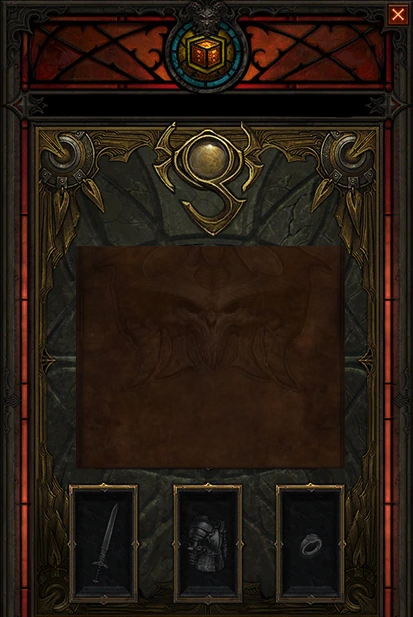
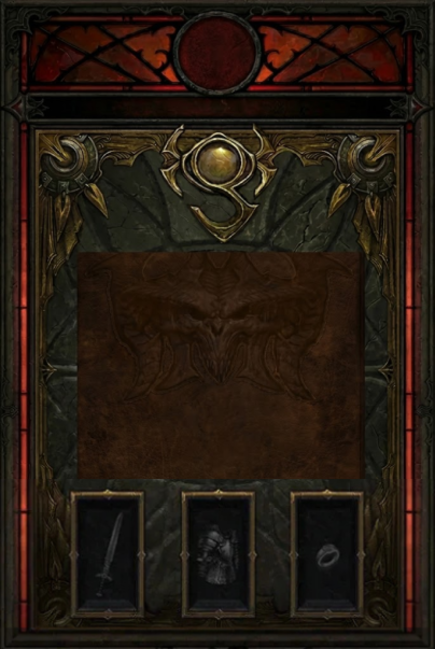
Feat: add stuff sprite in inventory

diff --git a/srcs/en/swingy/gui/guigame/InventoryGUI.java b/srcs/en/swingy/gui/guigame/InventoryGUI.java
@@ -7,6 +7,8 @@ import javax.swing.ImageIcon;
 import javax.swing.JLabel;
 
 import en.swingy.entity.entityclass.EntityClass;
+import en.swingy.equipement.armor.ArmorEnum;
+import en.swingy.equipement.helm.HelmEnum;
 import en.swingy.equipement.weapon.WeaponEnum;
 import en.swingy.gui.Assets;
 import en.swingy.gui.GUI;
@@ -19,7 +21,7 @@ public class InventoryGUI {
 				player.getEClass().getClass().getSimpleName()
 		);
 		JLabel PlayerIcon = new JLabel(pIcon);
-		PlayerIcon.setBounds(182, 30, pIcon.getIconWidth(), pIcon.getIconHeight());
+		PlayerIcon.setBounds(192, 27, pIcon.getIconWidth(), pIcon.getIconHeight());
 
 		label.add(PlayerIcon);
 	}
@@ -34,7 +36,7 @@ public class InventoryGUI {
 		int bannerWidth = IconWidth;
 
 		int nameX = (bannerWidth - textWidth) / 2;
-		int nameY = 90;
+		int nameY = 93;
 		PlayerName.setBounds(nameX, nameY, textWidth, 30);
 		label.add(PlayerName);
 	}
@@ -44,19 +46,28 @@ public class InventoryGUI {
 	}
 
 	public static void displayPlayerStuff(GUI gui, Hero player, JLabel label) {
-		System.out.println(WeaponEnum.findAssetByName(player.getWeapon().getName()));
 		ImageIcon weapon = new ImageIcon(WeaponEnum.findAssetByName(player.getWeapon().getName()));
-		JLabel l = new JLabel(weapon);
-		l.setBounds(40, 600, 66, 110);
+		JLabel l1 = new JLabel(weapon);
+		l1.setBounds(70, 500, 66, 110);
 
-		label.add(l);
+		ImageIcon armor = new ImageIcon(ArmorEnum.findAssetByName(player.getArmor().getName()));
+		JLabel l2 = new JLabel(armor);
+		l2.setBounds(185, 500, 66, 110);
+
+		ImageIcon helm = new ImageIcon(HelmEnum.findAssetByName(player.getHelm().getName()));
+		JLabel l3 = new JLabel(helm);
+		l3.setBounds(295, 500, 66, 110);
+
+		label.add(l1);
+		label.add(l2);
+		label.add(l3);
 	}
 
 	public static void showPlayerInventory(GUI gui, Hero player) {
 		ImageIcon i = new ImageIcon(Assets.PLAYER_INV);
 		JLabel label = new JLabel(i);
 		int x = 100;
-		int y = 30;
+		int y = 20;
 		label.setBounds(x, y, i.getIconWidth(), i.getIconHeight());
 
 		displayPlayerName(gui, player, label, i.getIconWidth());

diff --git a/srcs/en/swingy/equipement/helm/HelmAssets.java b/srcs/en/swingy/equipement/helm/HelmAssets.java
@@ -81,7 +81,7 @@ public enum HelmAssets {
 	PESTILENCE_MASK("helmets/PESTILENCE_MASK.png"),
 	RATHMAS_SKULL_HELM("helmets/RATHMAS_SKULL_HELM.png");
 
-	private static final String BASE_PATH = "ressources/assets/stuff/helm/";
+	private static final String BASE_PATH = "ressources/assets/stuff/";
 	private final String path;
 
 	HelmAssets(String relativePath) {
@@ -90,5 +90,15 @@ public enum HelmAssets {
 
 	public String getPath() {
 		return path;
+	}
+
+	public static String getAsset(String target) {
+		HelmAssets[] values = HelmAssets.values();
+		for (HelmAssets value : values) {
+			if (value.name().equals(target)) {
+				return value.getPath();
+			}
+		}
+		return null;
 	}
 }

diff --git a/srcs/en/swingy/equipement/armor/ArmorEnum.java b/srcs/en/swingy/equipement/armor/ArmorEnum.java
@@ -93,4 +93,14 @@ public enum ArmorEnum {
 		int index = new Random().nextInt(values.length);
 		return values[index].getLabel();
 	}
+
+	public static String findAssetByName(String name) {
+		ArmorEnum[] values = ArmorEnum.values();
+		for (ArmorEnum value : values) {
+			if (value.getLabel().equals(name)) {
+				return ArmorAssets.getAsset(value.name());
+			}
+		}
+		return null;
+	}
 }

diff --git a/srcs/en/swingy/equipement/helm/HelmEnum.java b/srcs/en/swingy/equipement/helm/HelmEnum.java
@@ -98,4 +98,14 @@ public enum HelmEnum {
 		int index = new Random().nextInt(values.length);
 		return values[index].getLabel();
 	}
+
+	public static String findAssetByName(String name) {
+		HelmEnum[] values = HelmEnum.values();
+		for (HelmEnum value : values) {
+			if (value.getLabel().equals(name)) {
+				return HelmAssets.getAsset(value.name());
+			}
+		}
+		return null;
+	}
 }

diff --git a/srcs/en/swingy/equipement/armor/ArmorAssets.java b/srcs/en/swingy/equipement/armor/ArmorAssets.java
@@ -86,4 +86,14 @@ public enum ArmorAssets {
 	public String getPath() {
 		return path;
 	}
+
+	public static String getAsset(String target) {
+		ArmorAssets[] values = ArmorAssets.values();
+		for (ArmorAssets value : values) {
+			if (value.name().equals(target)) {
+				return value.getPath();
+			}
+		}
+		return null;
+	}
 }

diff --git a/srcs/en/swingy/equipement/weapon/WeaponEnum.java b/srcs/en/swingy/equipement/weapon/WeaponEnum.java
@@ -210,7 +210,7 @@ public enum WeaponEnum {
 	public static String findAssetByName(String name) {
 		WeaponEnum[] values = WeaponEnum.values();
 		for (WeaponEnum value : values) {
-			if (value.getLabel() == name) {
+			if (value.getLabel().equals(name)) {
 				return WeaponAssets.getAsset(value.name());
 			}
 		}

diff --git a/srcs/en/swingy/equipement/weapon/WeaponAssets.java b/srcs/en/swingy/equipement/weapon/WeaponAssets.java
@@ -209,7 +209,7 @@ public enum WeaponAssets {
 	public static String getAsset(String target) {
 		WeaponAssets[] values = WeaponAssets.values();
 		for (WeaponAssets value : values) {
-			if (value.name() == target) {
+			if (value.name().equals(target)) {
 				return value.getPath();
 			}
 		}

diff --git a/srcs/en/swingy/gui/guigame/GUIGame.java b/srcs/en/swingy/gui/guigame/GUIGame.java
@@ -34,8 +34,8 @@ public class GUIGame {
 		int tileWidth = 64;
 		int tileHeight = 64;
 
-		int screenCenterX = 800;
-		int screenCenterY = 300;
+		int screenCenterX = 850;
+		int screenCenterY = 325;
 
 		int radius = 4;
 		int startX = playerPos.x - radius;
